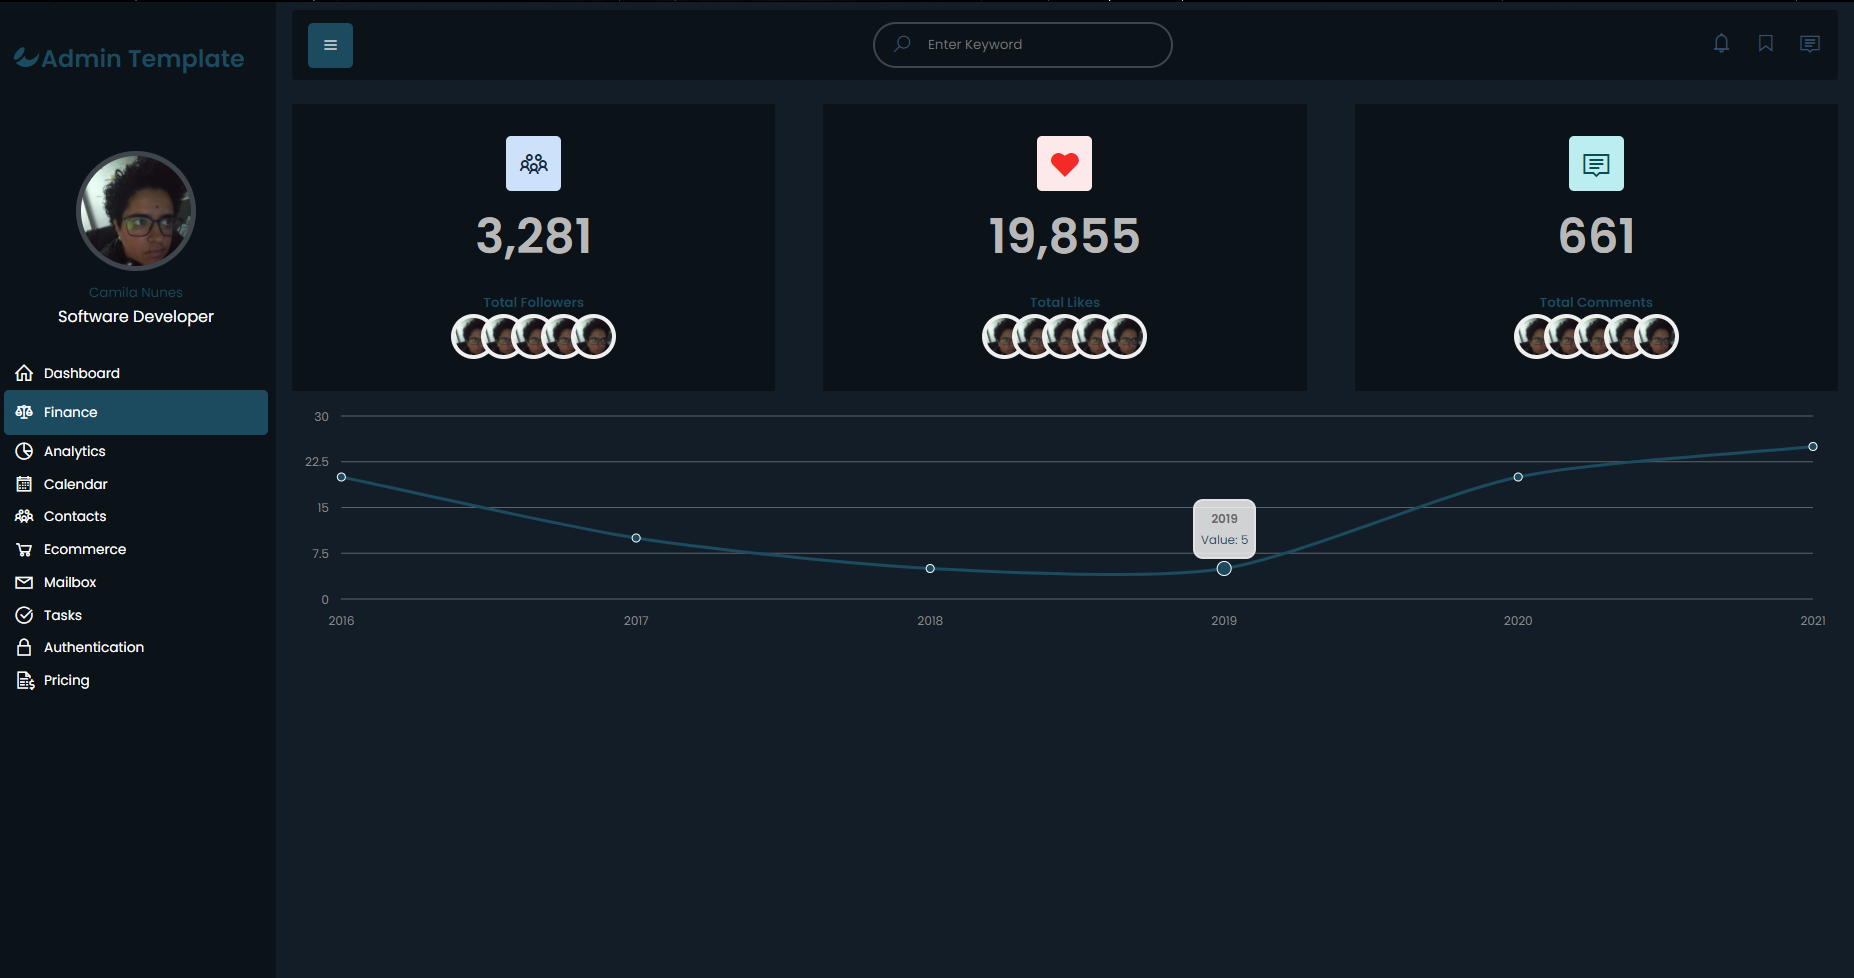
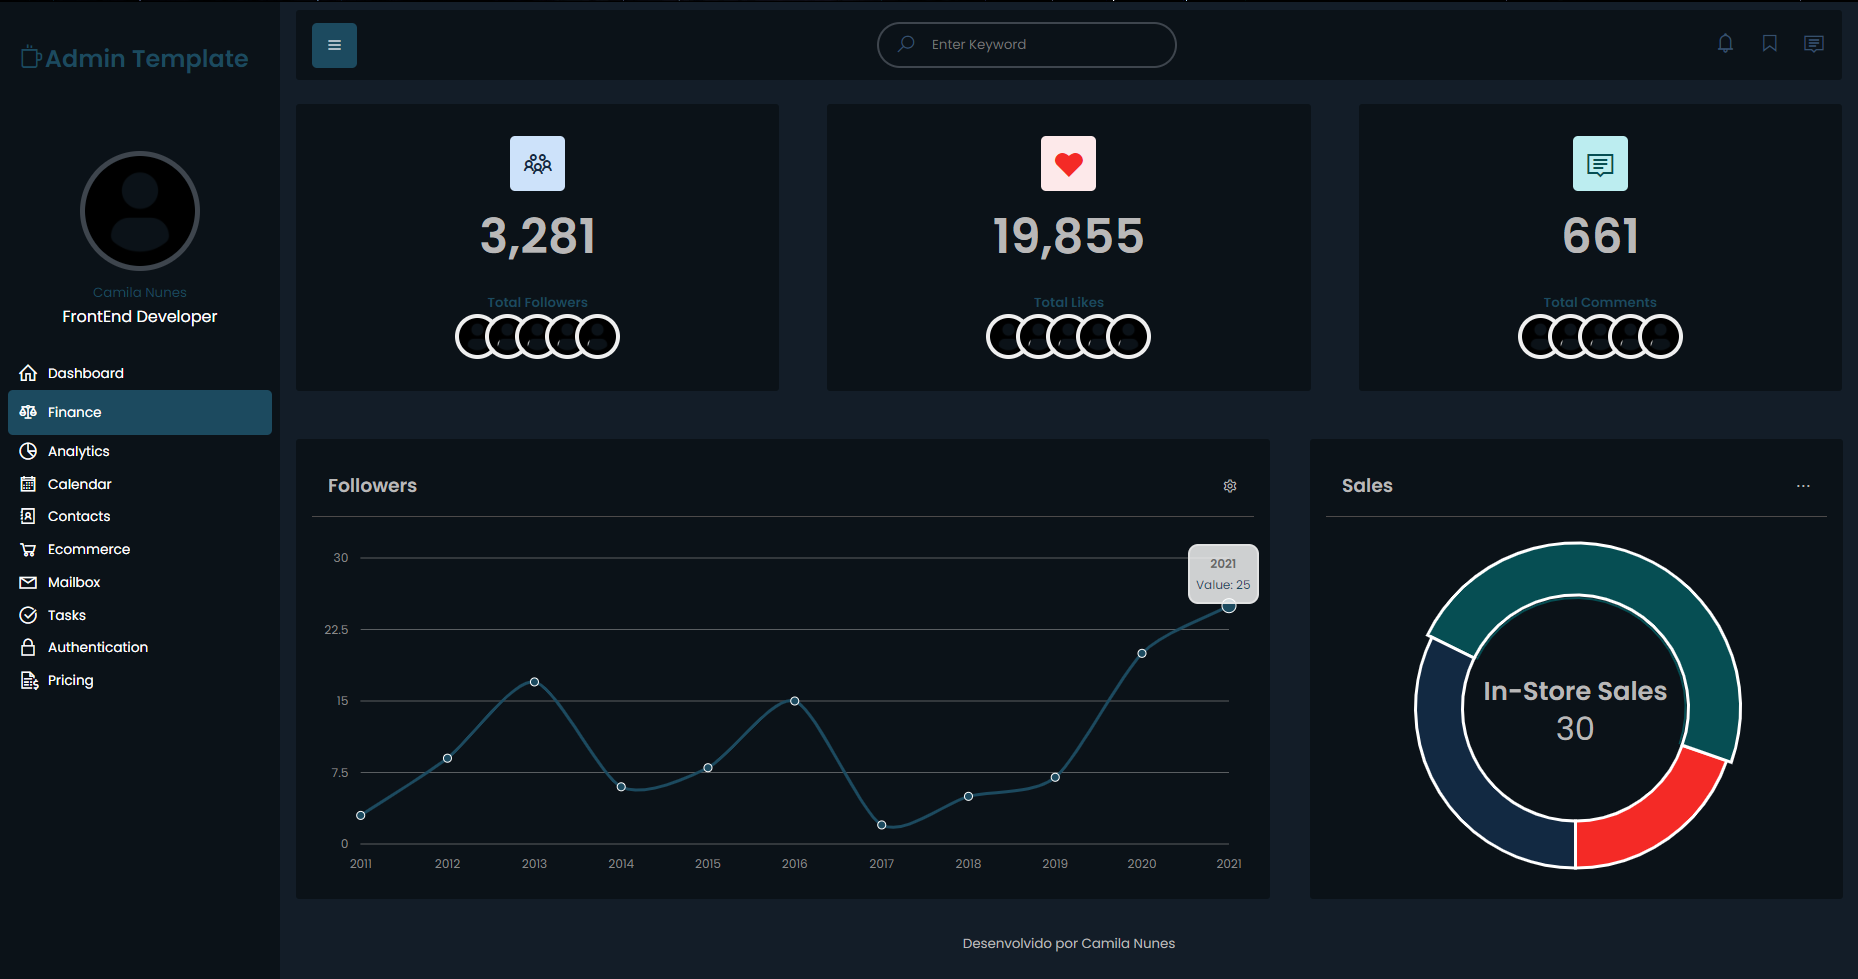
Deixando site responsivo - não finalizado;

diff --git a/index.html b/index.html
@@ -171,9 +171,14 @@
                 </div>
             </div>
         </main>
+        <footer>
+            <div class="footer">
+                <small>Desenvolvido por Camila Nunes</small>
+            </div>
+        </footer>
     </div>
     <label class="close-mobile-menu" for="menu-toggle"></label>
-
+    
     <script src="https://ajax.googleapis.com/ajax/libs/jquery/1.9.0/jquery.min.js"></script>
     <script src="https://cdnjs.cloudflare.com/ajax/libs/raphael/2.1.0/raphael-min.js"></script>
     <script src="https://cdnjs.cloudflare.com/ajax/libs/morris.js/0.5.1/morris.min.js"></script>

diff --git a/styles.css b/styles.css
@@ -310,6 +310,12 @@ main{
     transition: right 300ms;
 }
 
+.footer {
+    text-align: center;
+    color: #b9b8b8;
+    margin-top: 15px;
+}
+
 @media only screen and (max-width: 1124px){    
     #menu-toggle ~ .sidebar .brand h2{
         display: none;
